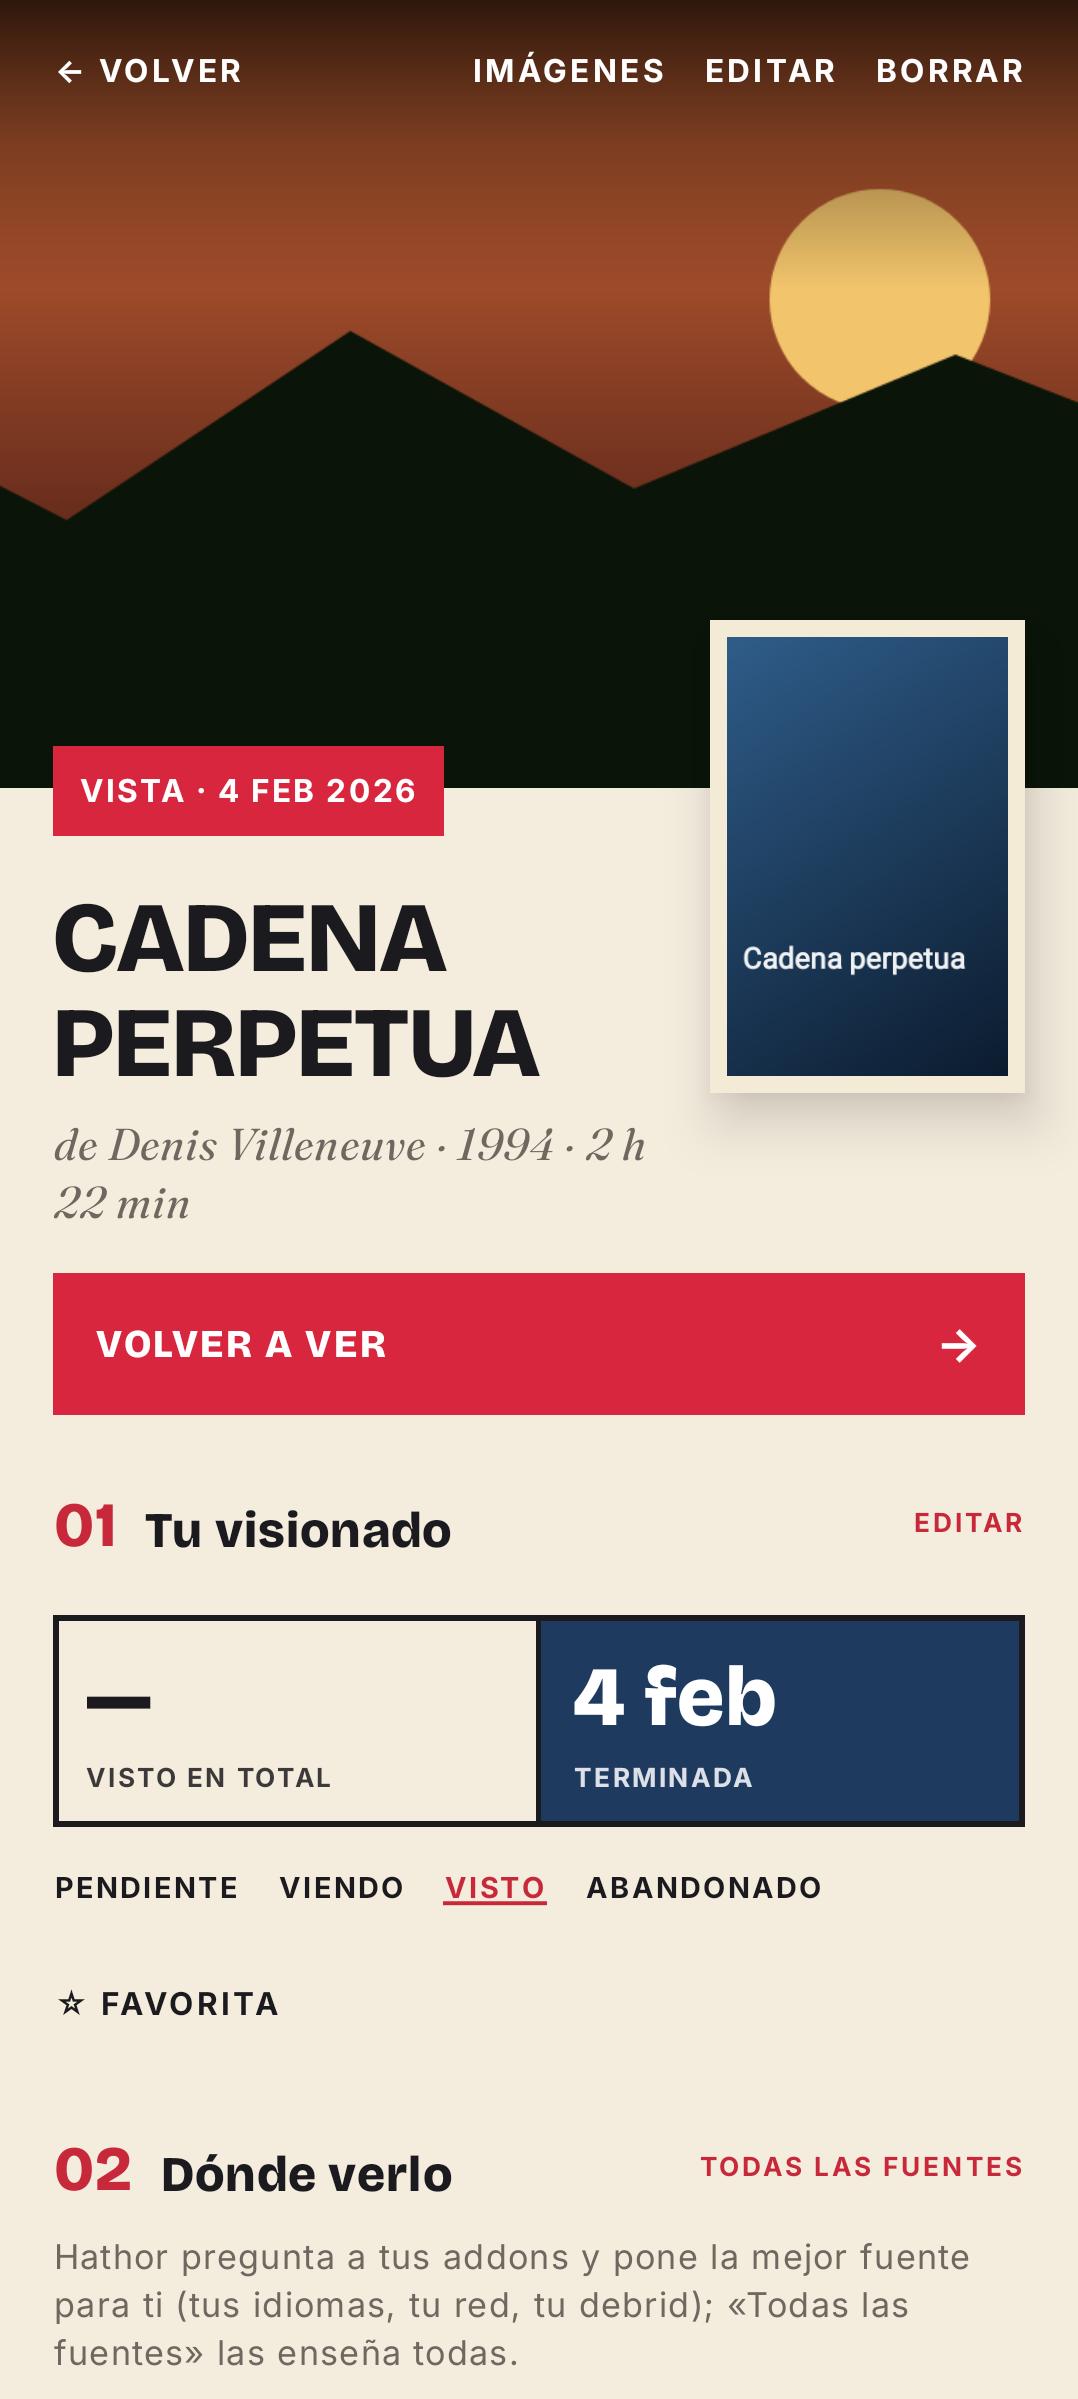
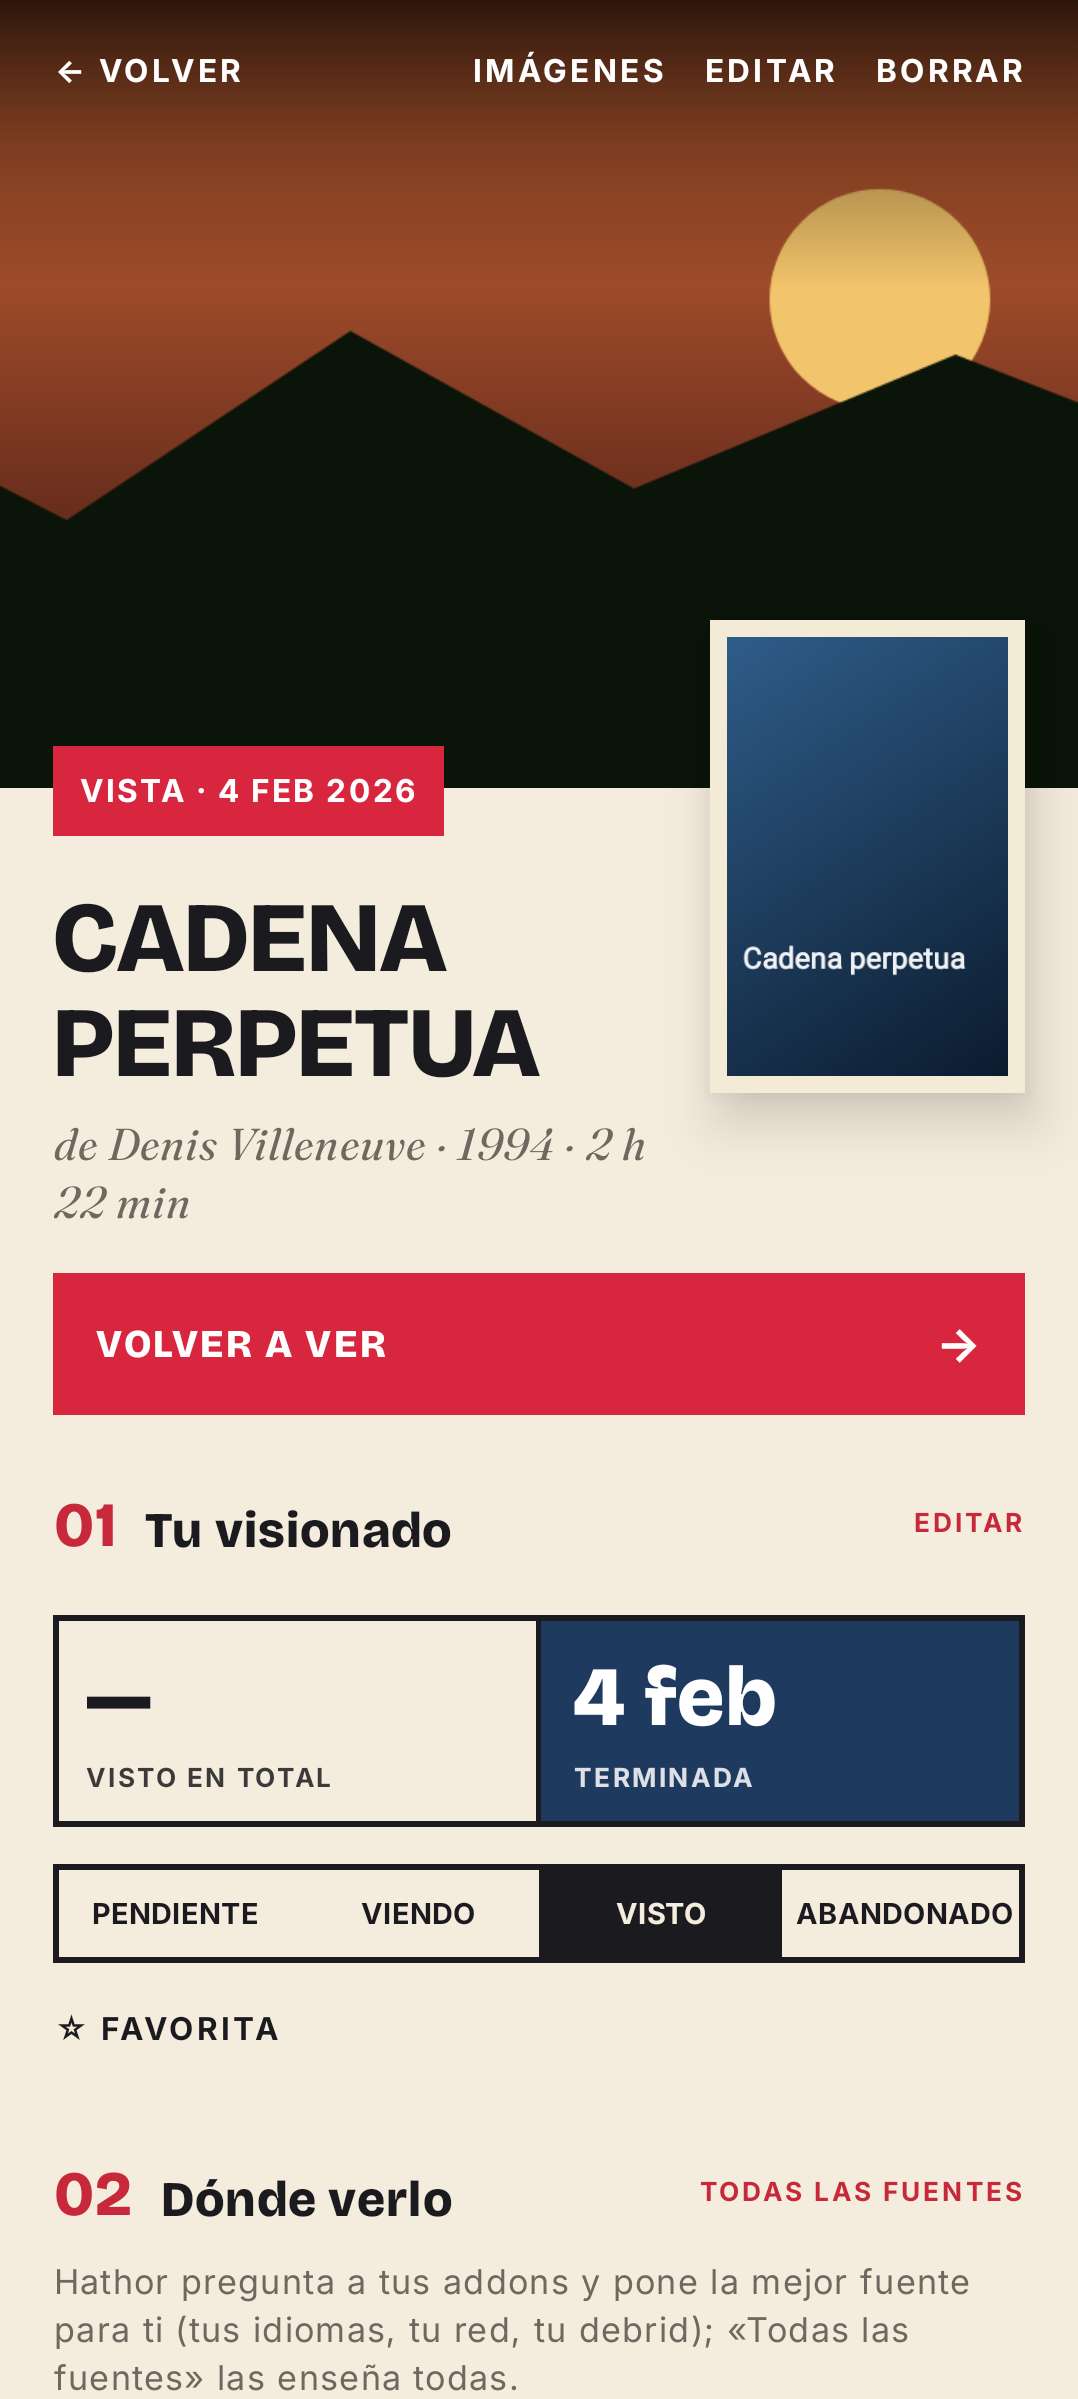
Hathor 0.7.2: Ajustes con la cabecera «AJUSTES.» y el estado de la ficha en bloque
Claude-Session: https://claude.ai/code/session_01Q4uywen3nuzUg5CTwJaCY5

Changed region(s): [[0.0306, 0.8945, 0.949, 1.0], [0.0306, 0.7712, 0.949, 0.8637]]

diff --git a/mostaza/src/main/java/com/gonzalo/mostaza/PantFicha.kt b/mostaza/src/main/java/com/gonzalo/mostaza/PantFicha.kt
@@ -257,10 +257,9 @@ private fun PantFichaDe(b: MetaBreve, alCerrar: () -> Unit, alAbrir: (MetaBreve)
                             BloqueCifra(when { t.estado == Estado.VISTO && t.fin > 0 -> Formato.fecha(t.fin).substringBeforeLast(' '); t.anadido > 0 -> Formato.fecha(t.anadido).substringBeforeLast(' '); else -> "—" },
                                 if (t.estado == Estado.VISTO && t.fin > 0) "terminada" else "añadida", Bloque2, Color.White),
                         ), Modifier.padding(top = 10.dp))
-                        MagChoice(listOf(Estado.PENDIENTE, Estado.VIENDO, Estado.VISTO, Estado.ABANDONADO).map { it.nombre }, listOf(Estado.PENDIENTE, Estado.VIENDO, Estado.VISTO, Estado.ABANDONADO).indexOf(t.estado)) { i ->
-                            Biblioteca.cambiaEstado(t.ref, listOf(Estado.PENDIENTE, Estado.VIENDO, Estado.VISTO, Estado.ABANDONADO)[i])
-                        }
-                        EnlaceRevista(if (t.fav) "★ Favorita" else "☆ Favorita", acento = t.fav) { Biblioteca.ponFavorito(t.ref, !t.fav) }
+                        Spacer(Modifier.height(14.dp))
+                        EstadosEnBloque(t.estado) { e -> Biblioteca.cambiaEstado(t.ref, e) }
+                        EnlaceRevista(if (t.fav) "★ Favorita" else "☆ Favorita", acento = t.fav, modifier = Modifier.padding(top = 4.dp)) { Biblioteca.ponFavorito(t.ref, !t.fav) }
                     }
                     // ---- 02 Temporadas y capítulos (en una serie)
                     if (serie && m != null && m.videos.isNotEmpty()) {
@@ -435,4 +434,22 @@ private fun FilaFuente(c: Candidata, elegida: Boolean, alPoner: () -> Unit) {
         if (f.descripcion.isNotBlank()) Text(f.descripcion, color = Muted, fontFamily = Body, fontSize = 13.sp, lineHeight = 18.sp, maxLines = 6, overflow = TextOverflow.Ellipsis)
     }
     Filete(1.dp, Line)
+}
+
+
+/** Los cuatro estados en bloque (dirección C, como Seshat y Bastet): borde de 2 dp y el elegido relleno de tinta. */
+@Composable
+fun EstadosEnBloque(actual: Estado, alElegir: (Estado) -> Unit) {
+    val todos = listOf(Estado.PENDIENTE, Estado.VIENDO, Estado.VISTO, Estado.ABANDONADO)
+    androidx.compose.foundation.layout.Row(Modifier.fillMaxWidth().height(androidx.compose.foundation.layout.IntrinsicSize.Min).border(2.dp, Charcoal)) {
+        todos.forEach { e ->
+            val on = e == actual
+            androidx.compose.foundation.layout.Box(Modifier.weight(1f).fillMaxHeight().background(if (on) Charcoal else Paper).tocable(enabled = !on) { alElegir(e) }.padding(vertical = 12.dp, horizontal = 2.dp),
+                contentAlignment = androidx.compose.ui.Alignment.Center) {
+                // (si no cabe, la letra se encoge: nada de «ABANDONAD»)
+                FitTitle(e.nombre.uppercase(), 11.sp, 13.sp, color = if (on) Paper else Charcoal, family = Body, fontWeight = FontWeight.Black, letterSpacing = 0.4.sp, maxLines = 1, unaLinea = true, minSize = 6f,
+                    align = androidx.compose.ui.text.style.TextAlign.Center)
+            }
+        }
+    }
 }

diff --git a/mostaza/src/main/java/com/gonzalo/mostaza/PantEstilo.kt b/mostaza/src/main/java/com/gonzalo/mostaza/PantEstilo.kt
@@ -31,7 +31,7 @@ import kotlinx.coroutines.Dispatchers
 import kotlinx.coroutines.launch
 import kotlinx.coroutines.withContext
 
-const val VERSION = "0.7.1"
+const val VERSION = "0.7.2"
 
 /** «Ajustes» en pestañas, como las hermanas: Apariencia · Catálogo · Reproductor · Fuentes · Cuenta · Avanzado. Todo lo que eliges aquí viaja con tu cuenta. */
 @Composable
@@ -39,12 +39,14 @@ fun PantEstilo(alVolver: () -> Unit, alAddons: () -> Unit = {}, pestanaInicial: 
     var pestana by rememberSaveable { mutableIntStateOf(pestanaInicial) }
     EspejoCuenta.version
     val mg = margen()
-    Column(Modifier.fillMaxSize().background(Paper).verticalScroll(rememberScrollState()).statusBarsPadding().navigationBarsPadding().padding(horizontal = mg)) {
-        RevistaTopBar(alVolver, "Hathor")
-        Antetitulo("Sección", Modifier.padding(top = 10.dp), color = Acento, conCuadro = false)
-        FitTitle("Ajustes", 52.sp, 56.sp, letterSpacing = (-1.5).sp, modifier = Modifier.padding(top = 2.dp), unaLinea = true)
-        Filete(3.dp)
+    Column(Modifier.fillMaxSize().background(Paper).verticalScroll(rememberScrollState()).navigationBarsPadding()) {
+        // Dirección C (como Seshat y Bastet): la cabecera en un bloque de tinta con «AJUSTES.» en grotesca
+        Column(Modifier.fillMaxWidth().background(Charcoal).statusBarsPadding().padding(horizontal = mg).padding(bottom = 14.dp)) {
+            EnlaceRevista("← Hathor", Modifier.padding(top = 6.dp), color = Paper.copy(alpha = 0.75f)) { alVolver() }
+            NombreConPunto("Ajustes", 52.sp, Paper, Modifier.padding(top = 2.dp))
+        }
         PestanasRevista(listOf("Apariencia", "Catálogo", "Reproductor", "Fuentes", "Cuenta", "Avanzado"), pestana) { pestana = it }
+        Column(Modifier.fillMaxWidth().padding(horizontal = mg)) {
         Spacer(Modifier.height(14.dp))
         Column(Modifier.widthIn(max = 760.dp)) {
             when (pestana) {
@@ -63,6 +65,7 @@ fun PantEstilo(alVolver: () -> Unit, alAddons: () -> Unit = {}, pestanaInicial: 
         Text("Hathor es hermana de Jonsu, Bastet, Seshat y Thot. Habla el protocolo abierto de los addons de Stremio; reproduce con AndroidX Media3 (Apache 2.0). " + Tmdb.AVISO_TMDB,
             color = Muted, fontFamily = Display, fontStyle = FontStyle.Italic, fontSize = 13.sp, lineHeight = 18.sp)
         Spacer(Modifier.height(30.dp))
+        }
     }
 }
 

diff --git a/docs/mostaza/HISTORIA.md b/docs/mostaza/HISTORIA.md
@@ -10,6 +10,12 @@ las fichas salen de Cinemeta (el oficial de Stremio, el único que viene puesto)
 fuentes, con tu Real-Debrid configurado en el suyo (esas dan enlaces directos, que Hathor reproduce al momento). Hathor no trae ningún
 addon de fuentes ni de torrents: los pones tú.
 
+
+## 0.7.2
+
+- **Ajustes, como Seshat y Bastet**: la cabecera es el bloque de tinta con «AJUSTES.» en grotesca (antes, «Ajustes» en serif).
+- **Ficha**: el estado (Pendiente · Viendo · Visto · Abandonado) va en bloque, con borde de 2 dp y el elegido relleno de tinta, como en las hermanas (antes, texto subrayado).
+
 ## Capturas
 
 Hechas en el ordenador con catálogos y fuentes de mentira (`CapturasTest`, solo con `-Proborazzi.test.record=true`), en el móvil, en la
